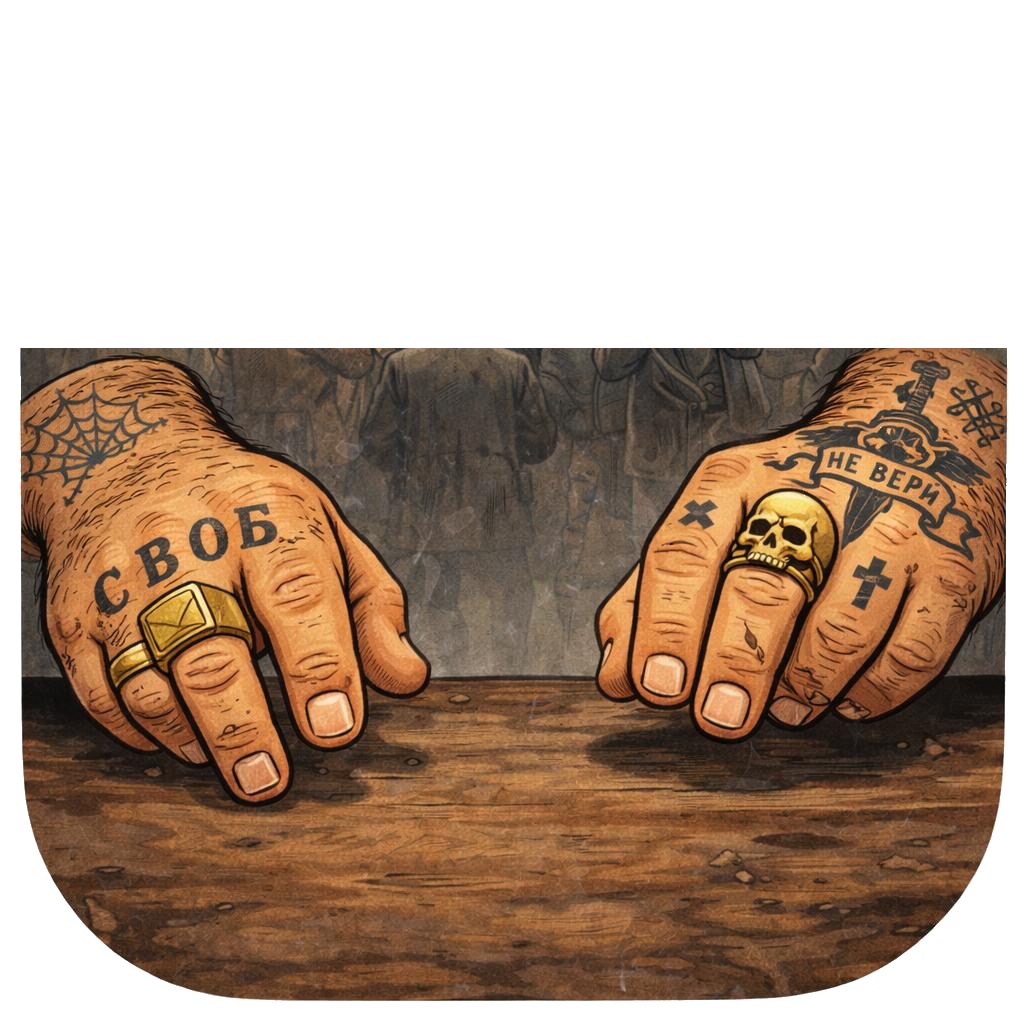
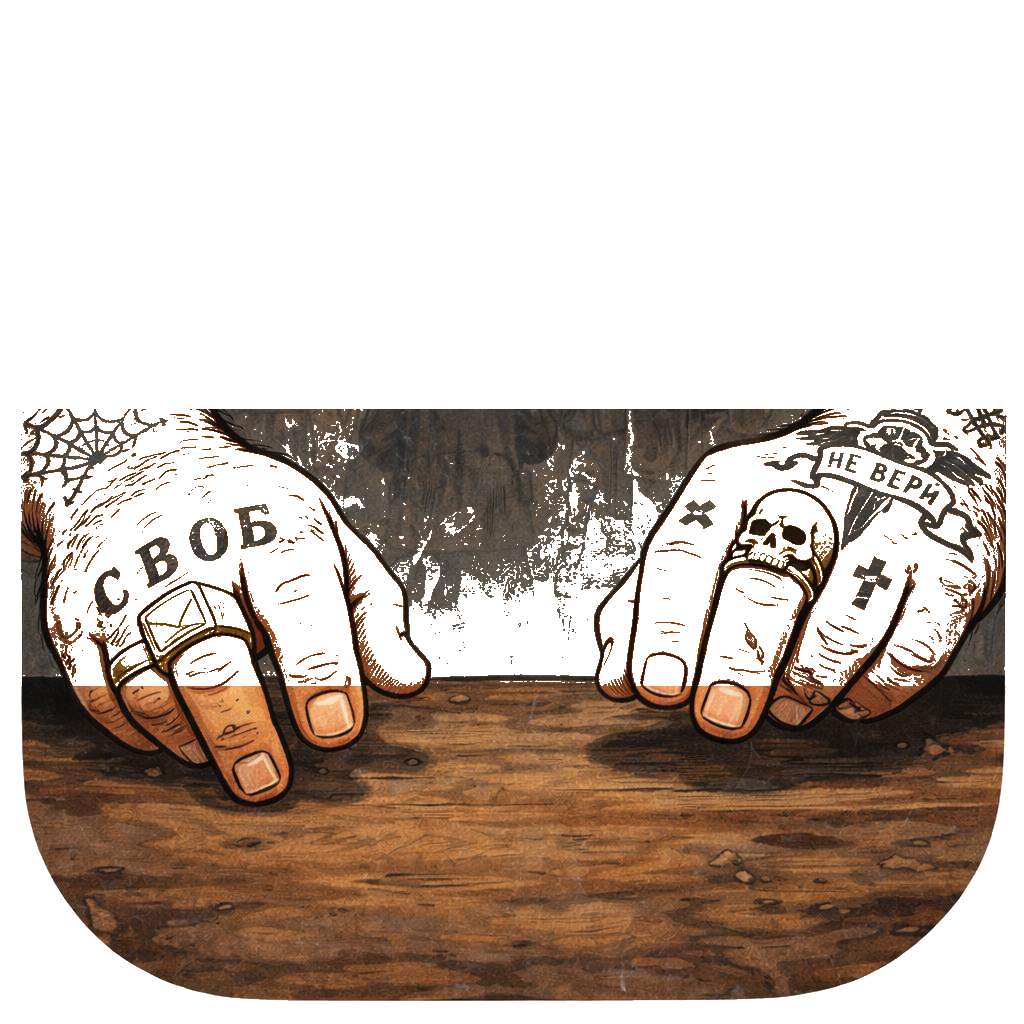
Refine hands cutout and motion

Changed region(s): [[0.0, 0.3125, 1.0, 0.6875]]

diff --git a/thimbles-miniapp/src/App.css b/thimbles-miniapp/src/App.css
@@ -141,17 +141,17 @@ input {
 .hands-overlay {
   position: absolute;
   left: 50%;
-  bottom: 2vh;
+  bottom: 17vh;
   transform: translateX(-50%);
-  z-index: 3;
+  z-index: 5;
   width: min(100%, 520px);
   height: auto;
   pointer-events: none;
-  opacity: 0.96;
+  opacity: 0.98;
 }
 
 .hands-overlay.is-shuffling {
-  animation: hands-sway 0.34s ease-in-out infinite alternate;
+  animation: hands-sway 0.26s ease-in-out infinite alternate;
 }
 
 .start-instruction {
@@ -434,10 +434,10 @@ input {
 
 @keyframes hands-sway {
   from {
-    transform: translateX(-50%) rotate(-1deg) translateY(0);
+    transform: translateX(calc(-50% - 10px)) rotate(-2deg) translateY(0);
   }
   to {
-    transform: translateX(-50%) rotate(1deg) translateY(-3px);
+    transform: translateX(calc(-50% + 10px)) rotate(2deg) translateY(-2px);
   }
 }
 
@@ -574,5 +574,6 @@ input {
 
   .hands-overlay {
     width: min(100%, 560px);
+    bottom: 128px;
   }
 }
